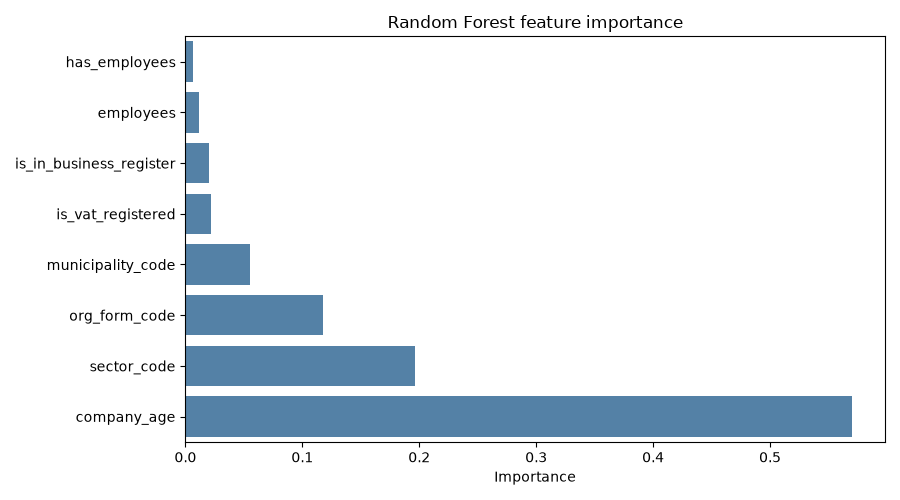
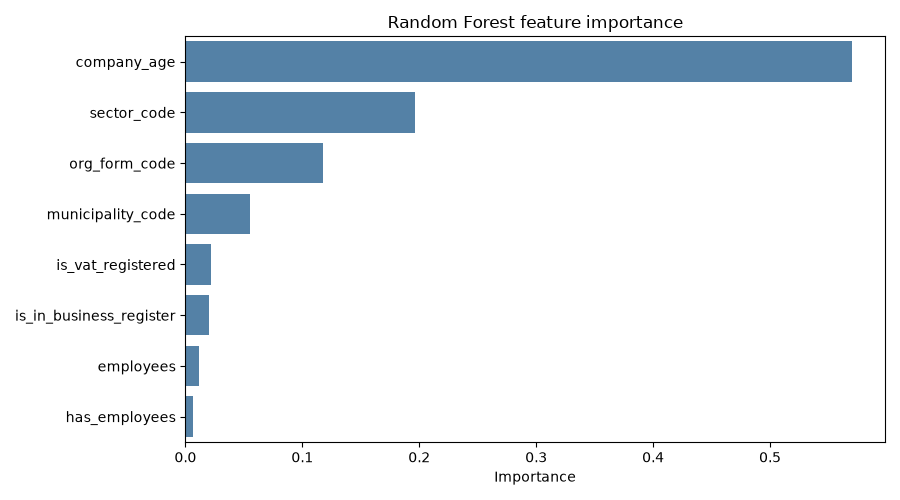
update README, small graph change

diff --git a/02-prediction/main.py b/02-prediction/main.py
@@ -308,7 +308,7 @@ def plot_feature_importance(rf_pipeline, categorical_features, numeric_features)
         pd.DataFrame(rows)
         .groupby("feature", as_index=False)["importance"]
         .sum()
-        .sort_values("importance", ascending=True)
+        .sort_values("importance", ascending=False)
     )
 
     plt.figure(figsize=(9, 5))

diff --git a/02-prediction/README.md b/02-prediction/README.md
@@ -10,6 +10,15 @@ Small predictive analysis of Norwegian company data from **Brønnøysundregistre
 - Trains a baseline model, a logistic regression model, and a random forest model on relevant features from the dataset. 
 - Visualises the accuracy of the models after testing, and feature importance for the random forest model (what features are best at predicting the industry of the company)
 
+
+## A note on the accuracy of the models
+
+As seen in the outputs, both models perform noticeably better than the baseline. Notably, the baseline's F1-score is much lower than its accuracy. This discrepancy occurs because the number of companies across the selected industries is imbalanced. Relying solely on accuracy would mask this class imbalance and provide a misleadingly optimistic view of the baseline's true predictive performance.
+
+Looking at the feature importance for the random forest model, it is clear that the age of the company is the greatest predictor of the industry a company is a part of. This could be plausible since new industries emerge/are more selected for
+across time. However, random forest favors continous numeric features. The only other such feature is the number of employees, and most companies in the dataset are registered with zero.  
+
+
 ## How to run
 
 - Follow the instructions in the README in the main folder of the repository
